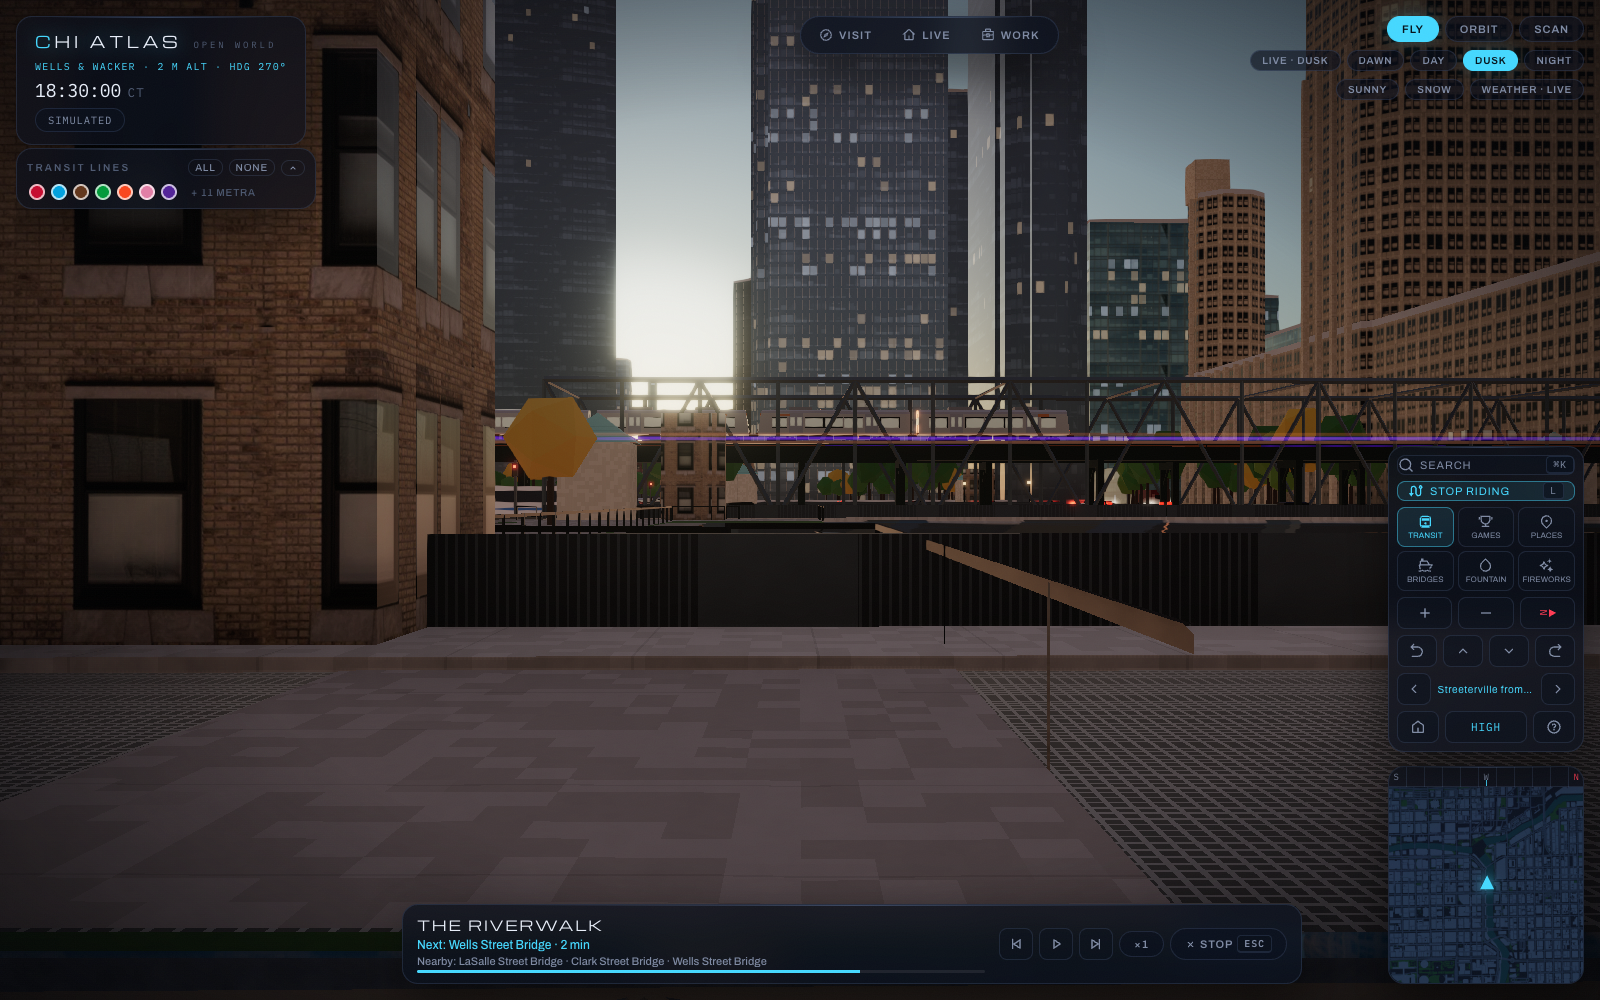
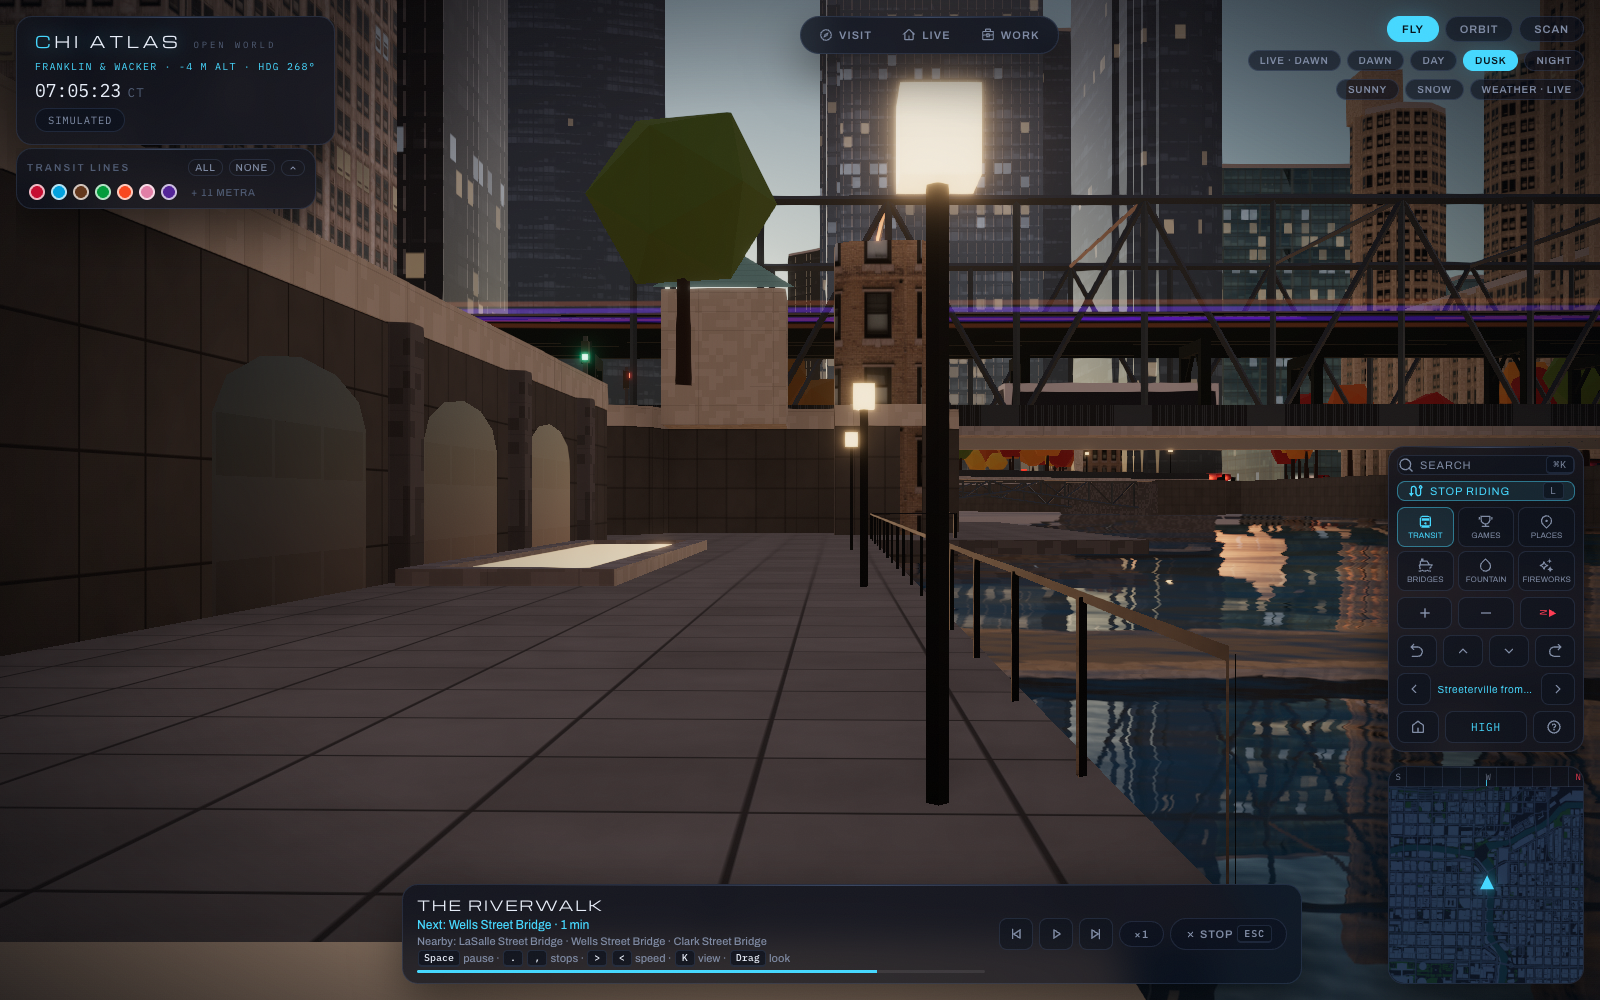
docs(readme): D1 — the river at its real depth; river frames re-taken, originals to Evolution

diff --git a/README.md b/README.md
@@ -55,7 +55,7 @@ grid — so the HUD always knows which corner you are over.
 </tr>
 <tr>
 <td><em>Grant Park in September — the trees follow the real calendar.</em></td>
-<td><em>Down the river canyon to Trump Tower, the Riverwalk lined with trees.</em></td>
+<td><em>Down the river canyon to Trump Tower: the river 6.3 m under Wacker Drive, the Riverwalk at the water's edge.</em></td>
 </tr>
 </table>
 
@@ -509,8 +509,39 @@ A second way to be in Chicago (`L`, the Ride button or ⌘K): ride any L line fr
 <td width="50%"><img src="docs/screenshots/p7-glide-dusk.png" alt="Phase 7 — hang-gliding over Streeterville at dusk" width="100%"/></td>
 </tr>
 <tr>
-<td><em>A street-level walk by the river at dusk, a Brown Line train crossing the Wells Street bridge.</em></td>
+<td><em>The Riverwalk walk at river level at dusk: the Water Plaza, the vaults under Wacker, an L train crossing the Wells Street bridge overhead.</em></td>
 <td><em>The glide: dive for speed, climb to trade it away — it banks round the towers, never through them.</em></td>
+</tr>
+</table>
+
+### Workstream D1 · The river at its real depth — *6.3 m under the street, the Riverwalk at the water*
+
+The Chicago River now runs where it really does: 6.3 m below Upper Wacker Drive (the regulated river level, checked against the 2017 Cook County LiDAR), between concrete dockwalls downtown and rubble-faced banks upriver, with the slips, basins and the Harbor Lock opening onto it. The Riverwalk sits 1 m above the water, from Lake Shore Drive to the Confluence at Lake Street, with its rooms between the bridges — the east section, the Vietnam Veterans Memorial, Marina Plaza, the Cove, the River Theater's steps up to Wacker, the Water Plaza, the Jetty and the Boardwalk — a passage under every bridge and a stair up to the street beside each one. The bascule piers stand in the water, each leaf swings down into a pit sized for its tail, the subway tubes dive under the river (the Red Line to about 20 m down at State Street), river-front buildings reach the water, and the water's reflection follows the view. The streets, buildings, traffic and the lake stay exactly where they were.
+
+<table>
+<tr>
+<td width="50%"><img src="docs/screenshots/d1-river-michigan-dusk.png" alt="D1 — the river from the Michigan Avenue bridge at dusk" width="100%"/></td>
+<td width="50%"><img src="docs/screenshots/d1-riverwalk-theater-day.png" alt="D1 — the River Theater's steps on the Riverwalk" width="100%"/></td>
+</tr>
+<tr>
+<td><em>West from the Michigan Avenue bridge at dusk: the river down in its canyon, the bascules lined up toward Marina City.</em></td>
+<td><em>On the Riverwalk at the River Theater: the seat-steps climb to Upper Wacker, the LaSalle Street bridge ahead.</em></td>
+</tr>
+<tr>
+<td width="50%"><img src="docs/screenshots/d1-riverwalk-jetty-day.png" alt="D1 — the Jetty's piers and the vaults under Wacker" width="100%"/></td>
+<td width="50%"><img src="docs/screenshots/d1-bridge-raised-pit.png" alt="D1 — the Clark Street bridge raised over its pit" width="100%"/></td>
+</tr>
+<tr>
+<td><em>The Jetty: wooden piers out over the water, the arched vaults under Wacker Drive behind.</em></td>
+<td><em>Press B: the Clark Street leaf stands up and its tail drops into the open pit in the pier.</em></td>
+</tr>
+<tr>
+<td width="50%"><img src="docs/screenshots/d1-subway-under-river.png" alt="D1 — following a Red Line train under the river" width="100%"/></td>
+<td width="50%"><img src="docs/screenshots/d1-hero-river-dusk.png" alt="D1 — the river hero view at dusk" width="100%"/></td>
+</tr>
+<tr>
+<td><em>Following a Red Line train through the State Street tube, about 16 m down where it passes under the river.</em></td>
+<td><em>The river hero view at dusk, re-taken: the water below the dockwalls, the Riverwalk at its edge.</em></td>
 </tr>
 </table>
 
@@ -635,6 +666,38 @@ It wasn't made right in one attempt. Here are the same places through each pass,
 </tr>
 </table>
 
+**The river** — from flat water at street level to the river at its real depth
+
+<table>
+<tr>
+<td width="33%"><img src="docs/screenshots/evolution/phase2-river-day.png" alt="Phase 2 — the river at street level" width="100%"/></td>
+<td width="33%"><img src="docs/screenshots/evolution/hero-river-dusk-before-d1.png" alt="Before D1 — the river hero view, flat" width="100%"/></td>
+<td width="33%"><img src="docs/screenshots/phase2-river-day.png" alt="Today — the river 6.3 m down, the Riverwalk at the water" width="100%"/></td>
+</tr>
+<tr>
+<td><sub>Phase 2 · Sep 28<br/>water level with the street</sub></td>
+<td><sub>Vision pass · Sep 30<br/>one water, still flat</sub></td>
+<td><sub>D1 · Oct 1<br/>6.3 m down, the Riverwalk at the water</sub></td>
+</tr>
+</table>
+
+**The Riverwalk** — the walk and the night view, before and after it went down to the water
+
+<table>
+<tr>
+<td width="25%"><img src="docs/screenshots/evolution/p7-riverwalk-dusk.png" alt="Phase 7 — the Riverwalk walk at street level" width="100%"/></td>
+<td width="25%"><img src="docs/screenshots/p7-riverwalk-dusk.png" alt="D1 — the Riverwalk walk at river level" width="100%"/></td>
+<td width="25%"><img src="docs/screenshots/evolution/v8-riverwalk-night.png" alt="Vision pass — the Riverwalk at night, flat" width="100%"/></td>
+<td width="25%"><img src="docs/screenshots/v8-riverwalk-night.png" alt="D1 — the Riverwalk at night, lamps at the water" width="100%"/></td>
+</tr>
+<tr>
+<td><sub>Phase 7 · Sep 30<br/>a walk at street level</sub></td>
+<td><sub>D1 · Oct 1<br/>the walk at river level</sub></td>
+<td><sub>Vision pass · Sep 29<br/>the flat river at night</sub></td>
+<td><sub>D1 · Oct 1<br/>its lamps down at the water</sub></td>
+</tr>
+</table>
+
 **One landmark** — the Wrigley Building and the Tribune
 
 <table>
@@ -724,7 +787,7 @@ It wasn't made right in one attempt. Here are the same places through each pass,
 <td><sub>V1 · Sep 29<br/>windows on the water</sub></td>
 <td><sub>V3 · Sep 29<br/>the L in its colours</sub></td>
 <td><sub>Vision pass · Sep 29<br/>lit crowns, trains</sub></td>
-<td><sub>Phase 4 · Sep 30<br/>street lamps, traffic</sub></td>
+<td><sub>D1 · Oct 1<br/>the river at its real depth</sub></td>
 <td><sub>Phase 4 · Sep 30<br/>floodlit gold leaf</sub></td>
 </tr>
 </table>
